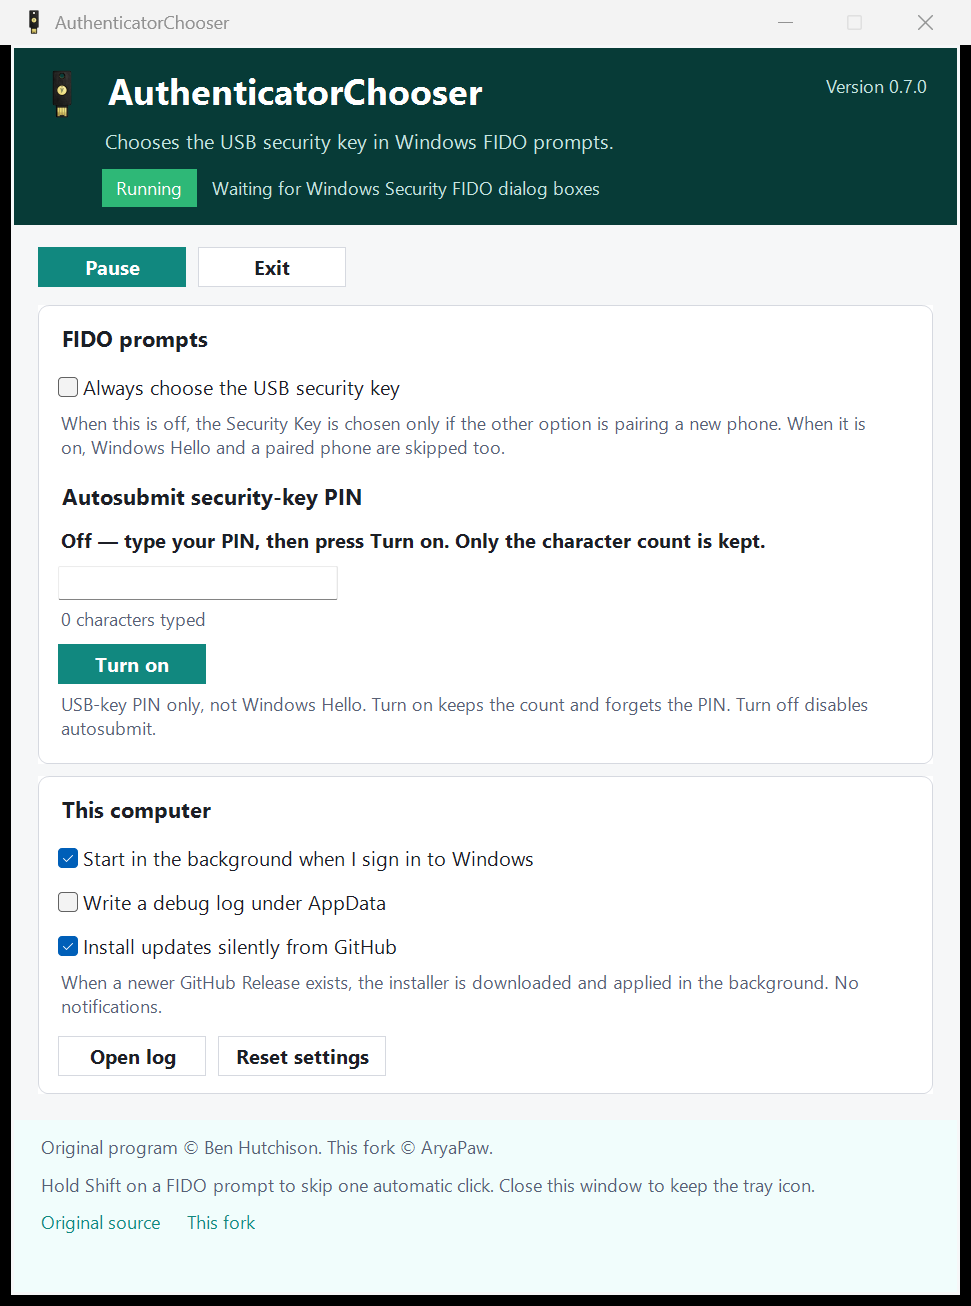
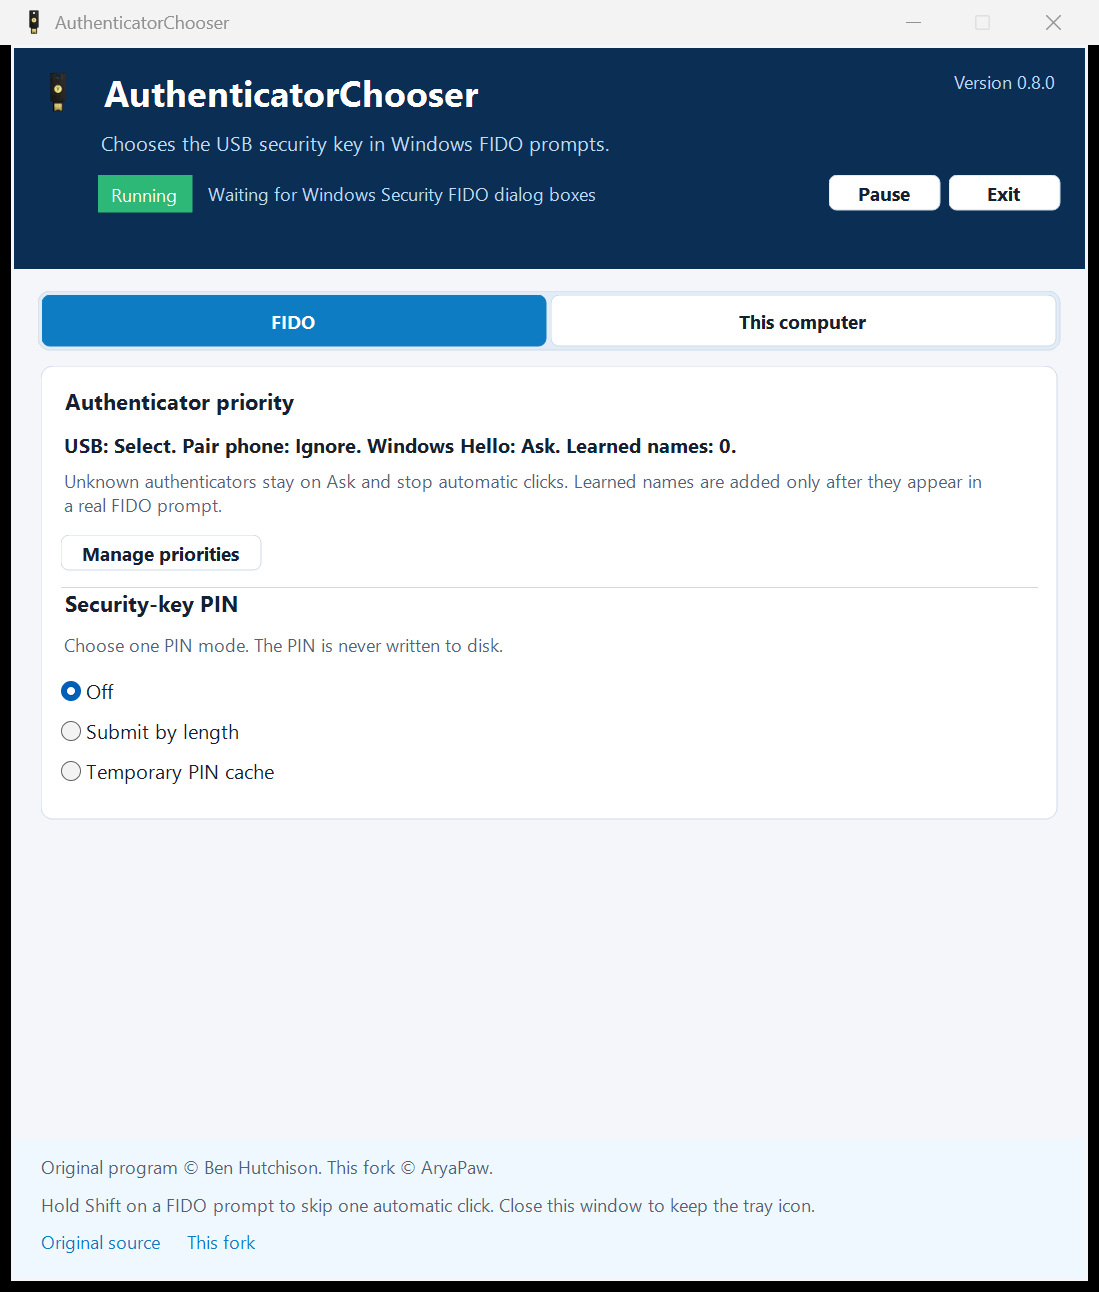
docs: recapture the status window and document local preview

diff --git a/Readme.md b/Readme.md
@@ -6,11 +6,27 @@
 [![Windows 11](https://img.shields.io/badge/Windows-11-0078D4?logo=windows&logoColor=white)](https://www.microsoft.com/windows)
 [![License](https://img.shields.io/badge/License-Apache_2.0-blue.svg)](LICENSE.txt)
 
-Windows 11 asks “phone or security key?” every time you use a USB key. This program sits in the tray and clicks **Security key** for you. You can pause it, autostart it, and optionally autosubmit the key PIN by length (not Windows Hello).
+Windows 11 asks “phone or security key?” every time you use a USB key. This program sits in the tray and clicks **Security key** for you. You can pause it, autostart it, rank other authenticators, and optionally handle the USB-key PIN by length or a temporary in-memory cache (never saved to disk).
 
 <p align="center"><img src=".github/images/authenticator-prompt.png" alt="Windows asking to choose a phone or a security key" width="420" /></p>
 <p align="center"><img src=".github/images/demo.gif" alt="The phone screen disappearing as Security key is chosen" width="420" /></p>
 <p align="center"><img src=".github/images/status-window.png" alt="Status window" width="520" /></p>
+
+## Local preview (this repo)
+
+From the repo root, double-click `run-local.cmd` or:
+
+```ps1
+.\scripts\run-local.ps1
+```
+
+That stops the running tray process, publishes a single exe to `artifacts\local\AuthenticatorChooser.exe`, and opens the status window (`--show-window`). Use that folder as the local preview; do not dig through `bin\Release\net8.0-windows\win-x64\publish`.
+
+`artifacts\` is gitignored build output:
+
+- `artifacts\local\` — daily preview (this script)
+- `artifacts\AuthenticatorChooser-Setup-*.exe` — installer from release-gate
+- `artifacts\sandbox-in\` / `sandbox-out\` — Windows Sandbox checks, not for running the app
 
 ## Install
 
@@ -37,10 +53,14 @@ Closing the window does **not** quit; use **Exit**. A second launch opens the sa
 | | |
 | --- | --- |
 | **Pause** | Stops auto-clicks until you resume. Hold <kbd>Shift</kbd> to skip one click without pausing. |
-| **Always choose the USB security key** | Also skip Windows Hello and an already-paired phone. Off = only skip “pair a new phone”. |
-| **Autosubmit PIN** | Type a PIN of the length you use → **Turn on**. Only the length is stored. USB-key PIN only. |
+| **Authenticator priority** | Ordered **Select / Ask / Ignore** rules. USB is Select by default; pairing a new phone is Ignore; Windows Hello is Ask. Unknown names (password-manager plugins, a paired phone’s own label, …) stay on Ask and **stop** automatic clicks. Names are learned only after they appear in a real FIDO prompt, never auto-preferred. Open **Manage priorities** to reorder, add, or restore defaults. Built-in rows cannot be renamed or removed. |
+| **PIN: Off** | No PIN handling. |
+| **PIN: Submit by length** | Type a PIN of the length you use → **Turn on**. Only the character count is kept. USB-key PIN only. |
+| **PIN: Temporary PIN cache** | Enter the PIN twice, pick how long to remember it (1 / 2 / 5 / 10 minutes, or until lock or Exit), then **Cache PIN**. It is encrypted in this process with Windows `CryptProtectMemory` and is **never written to disk**. Lock, sleep, hibernate, Pause, Reset, a debugger, or Exit always forget it. Filling requires exactly one USB security key and a trusted Windows Security dialog (`CredentialUIBroker.exe` in System32, Microsoft-signed). If the PIN field comes back in the same prompt (likely a reject), the cache is cleared so a wrong PIN is not retried. |
 | **Start when I sign in** | Starts with Windows. |
 | **Install updates silently from GitHub** | Downloads and applies a newer Setup with no notifications. |
+
+`--skip-all-non-security-key-options` and `--autosubmit-pin-length` still work as session overrides. Skip-all forces USB **Select** and treats other known options as **Ignore** for that process.
 
 If it still highlights Security key but does not click Next, press <kbd>Enter</kbd>.
 
@@ -59,7 +79,7 @@ Output: `AuthenticatorChooser\bin\Release\net8.0-windows\win-x64\publish\Authent
 
 CI (`.github/workflows/dotnet.yml`) publishes the same non-self-contained build. A GitHub Release with Setup and portable exes is created when you push a `v*` tag.
 
-Unit tests cover settings, skip policy, title/caption mapping, autostart helpers, and the status presenter. UI Automation against live Windows Security dialogs is not part of CI.
+Unit tests cover settings migration, PIN cache policy, authenticator priority, title/caption mapping, autostart helpers, and the status window. UI Automation against live Windows Security dialogs is not part of CI.
 
 ## Related
 
